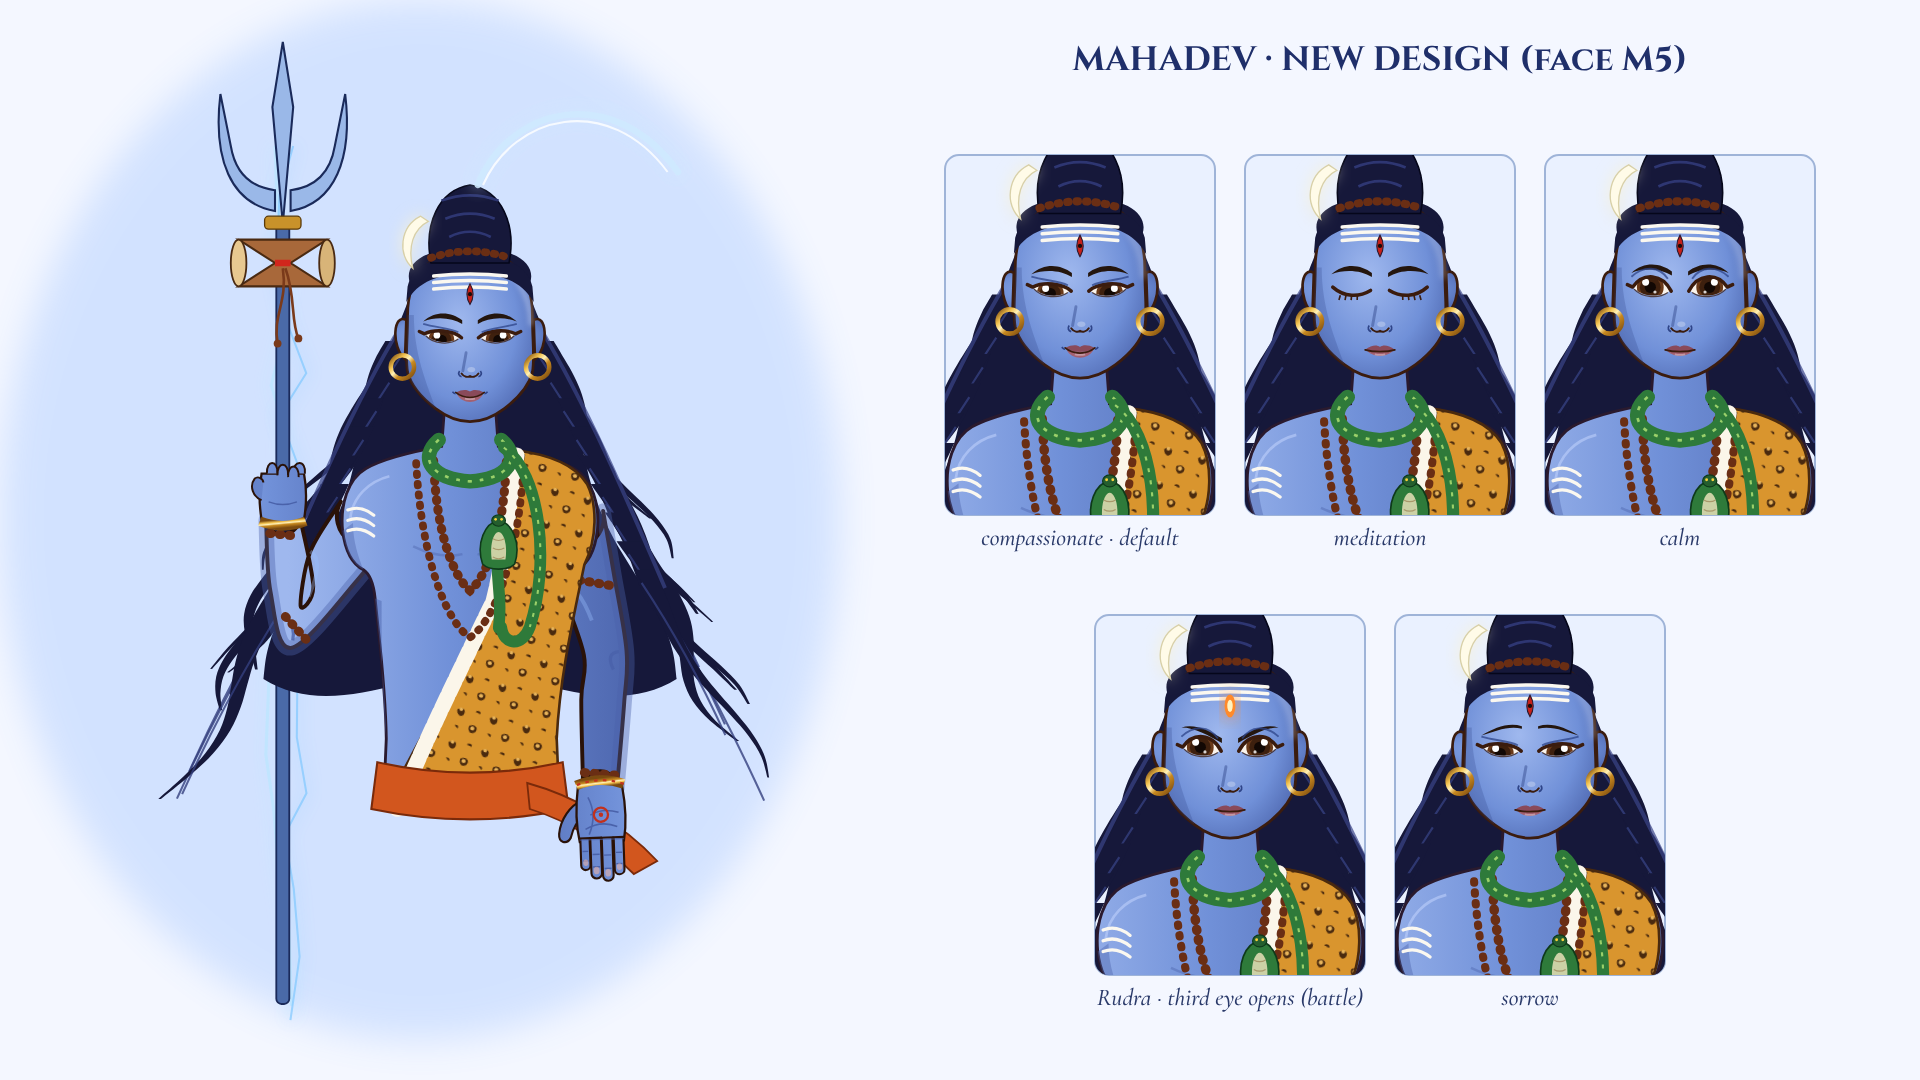
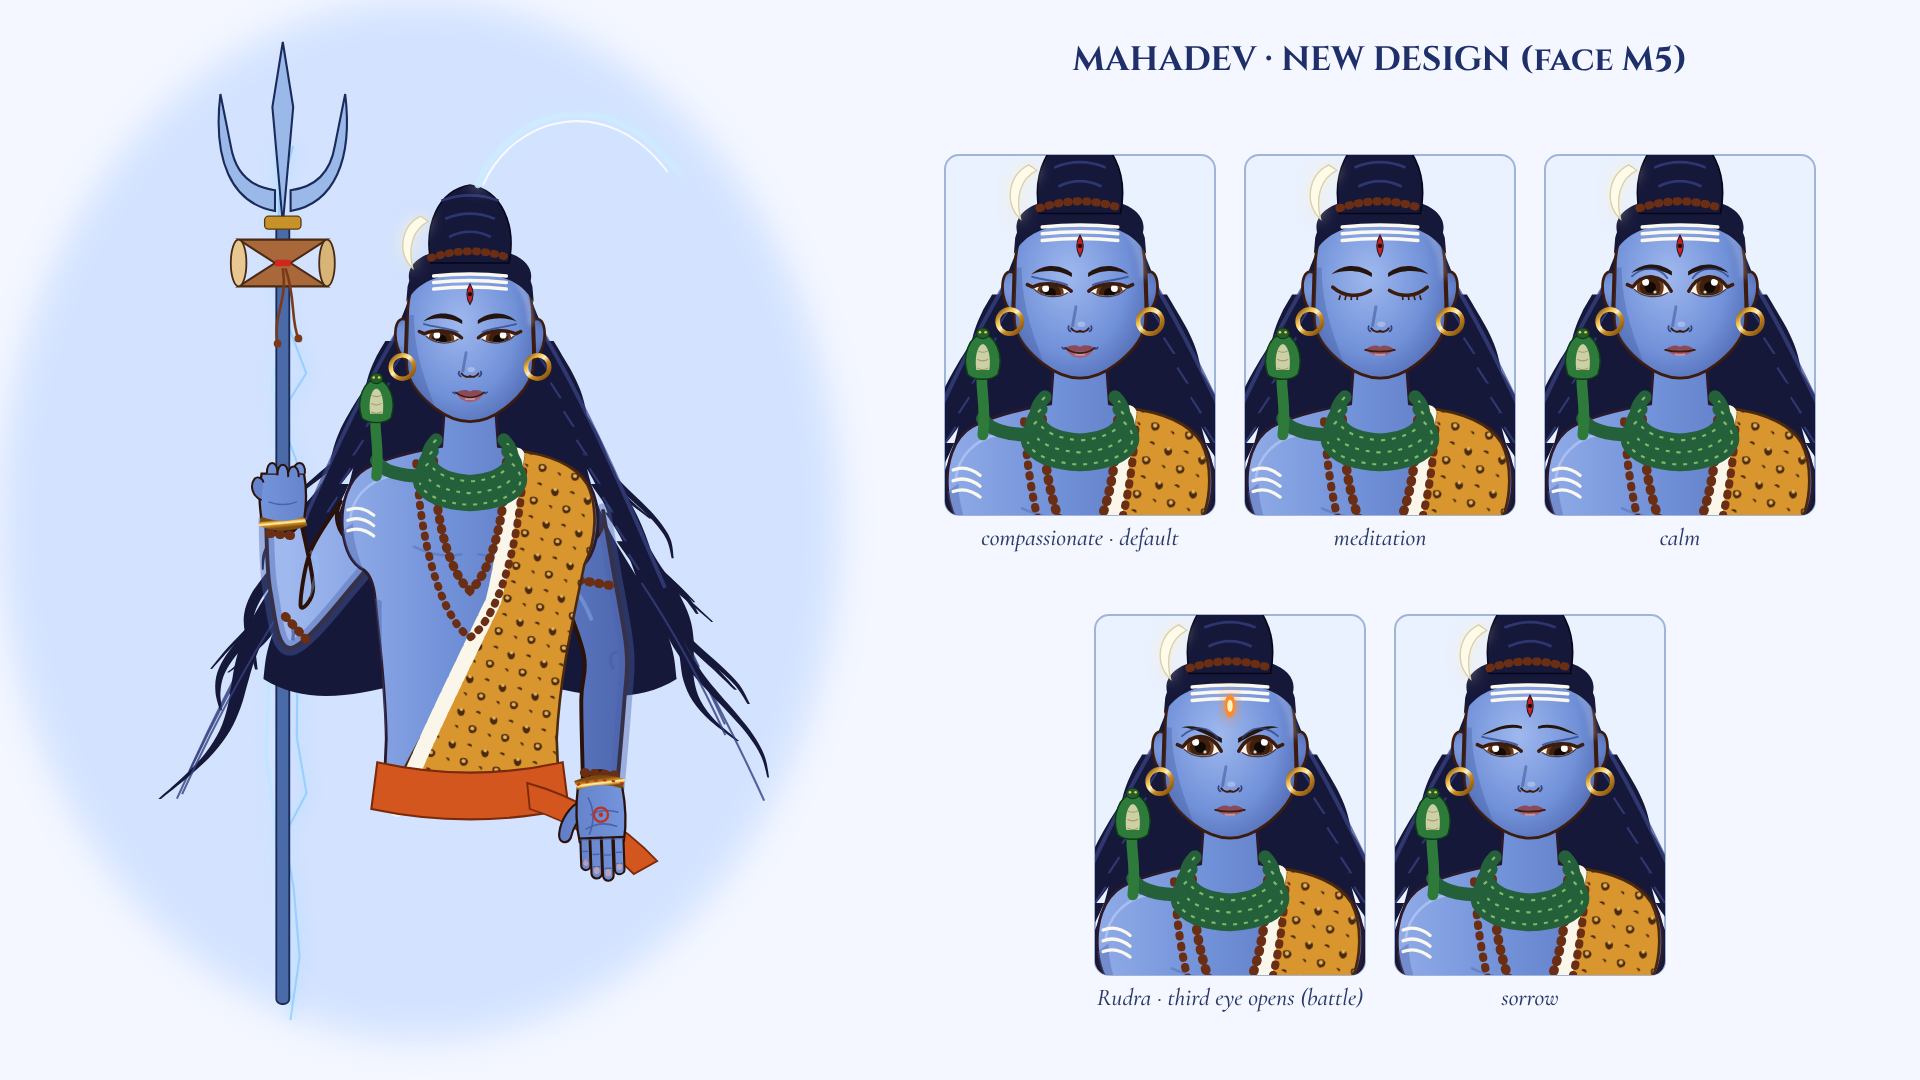
Mahadev: snake as in the reference (3 neck coils, hood rising on his right shoulder beside the jaw)
Claude-Session: https://claude.ai/code/session_01X3ArEdZK7W9b78YVvUKCgo

diff --git a/devotional-studio/style-frames/mahadev-v2.js b/devotional-studio/style-frames/mahadev-v2.js
@@ -89,9 +89,11 @@ function mahadevUpper(o = {}) {
     <path d="M-28 162 C -26 224 -10 254 0 262 C 10 254 26 224 28 162" fill="none" stroke="#6a2e14" stroke-width="7" stroke-dasharray="1 6.5" stroke-linecap="round"/>
     <path d="M -41.4 164 C -36.8 244 -16.1 288 0 298 C 16.1 288 36.8 244 41.4 164" fill="none" stroke="#6a2e14" stroke-width="6" stroke-dasharray="1 7" stroke-linecap="round"/>
     <!-- neck snake + twin cobras -->
-    <path d="M-24 146 C -40 160 -30 176 0 178 C 30 176 40 160 24 146" fill="none" stroke="#2e7a3a" stroke-width="11" stroke-linecap="round"/>
-    <path d="M-24 146 C -40 160 -30 176 0 178 C 30 176 40 160 24 146" fill="none" stroke="#9ad06a" stroke-width="2" stroke-dasharray="3 6"/>
-    <path d="M26 152 C 54 172 62 240 46 290 C 40 306 26 304 24 290" stroke="#2e7a3a" stroke-width="9" fill="none" stroke-linecap="round"/><path d="M26 152 C 54 172 62 240 46 290" stroke="#9ad06a" stroke-width="1.6" fill="none" stroke-dasharray="3 6"/>${cobra(22, 238, .88, false)}
+    <!-- one snake: 3 coils around the neck, hood rising on his right shoulder (screen left) beside the jaw -->
+    ${[0, 1, 2].map(k => `<path d="M${-26 - k * 3} ${146 + k * 9} C ${-40 - k * 4} ${160 + k * 9} ${-30 - k * 3} ${176 + k * 9} 0 ${178 + k * 9} C ${30 + k * 3} ${176 + k * 9} ${40 + k * 4} ${160 + k * 9} ${26 + k * 3} ${146 + k * 9}" fill="none" stroke="#24603a" stroke-width="10" stroke-linecap="round"/>
+      <path d="M${-26 - k * 3} ${146 + k * 9} C ${-40 - k * 4} ${160 + k * 9} ${-30 - k * 3} ${176 + k * 9} 0 ${178 + k * 9} C ${30 + k * 3} ${176 + k * 9} ${40 + k * 4} ${160 + k * 9} ${26 + k * 3} ${146 + k * 9}" fill="none" stroke="#7fb86a" stroke-width="1.6" stroke-dasharray="3 5"/>`).join('')}
+    <path d="M-36 174 C -54 174 -68 170 -72 162" stroke="#24603a" stroke-width="10" fill="none" stroke-linecap="round"/>
+    ${cobra(-72, 126, .8, false)}
     ${F.faceP(face)}
     <path d="M-48 28 C -44 12 -28 4 0 4 C 28 4 44 12 48 28 L 49 40 C 40 24 24 18 0 18 C -24 18 -40 24 -49 40Z" fill="#16183a"/>
     <!-- top bun, rudraksha band, crescent, Ganga arc -->
